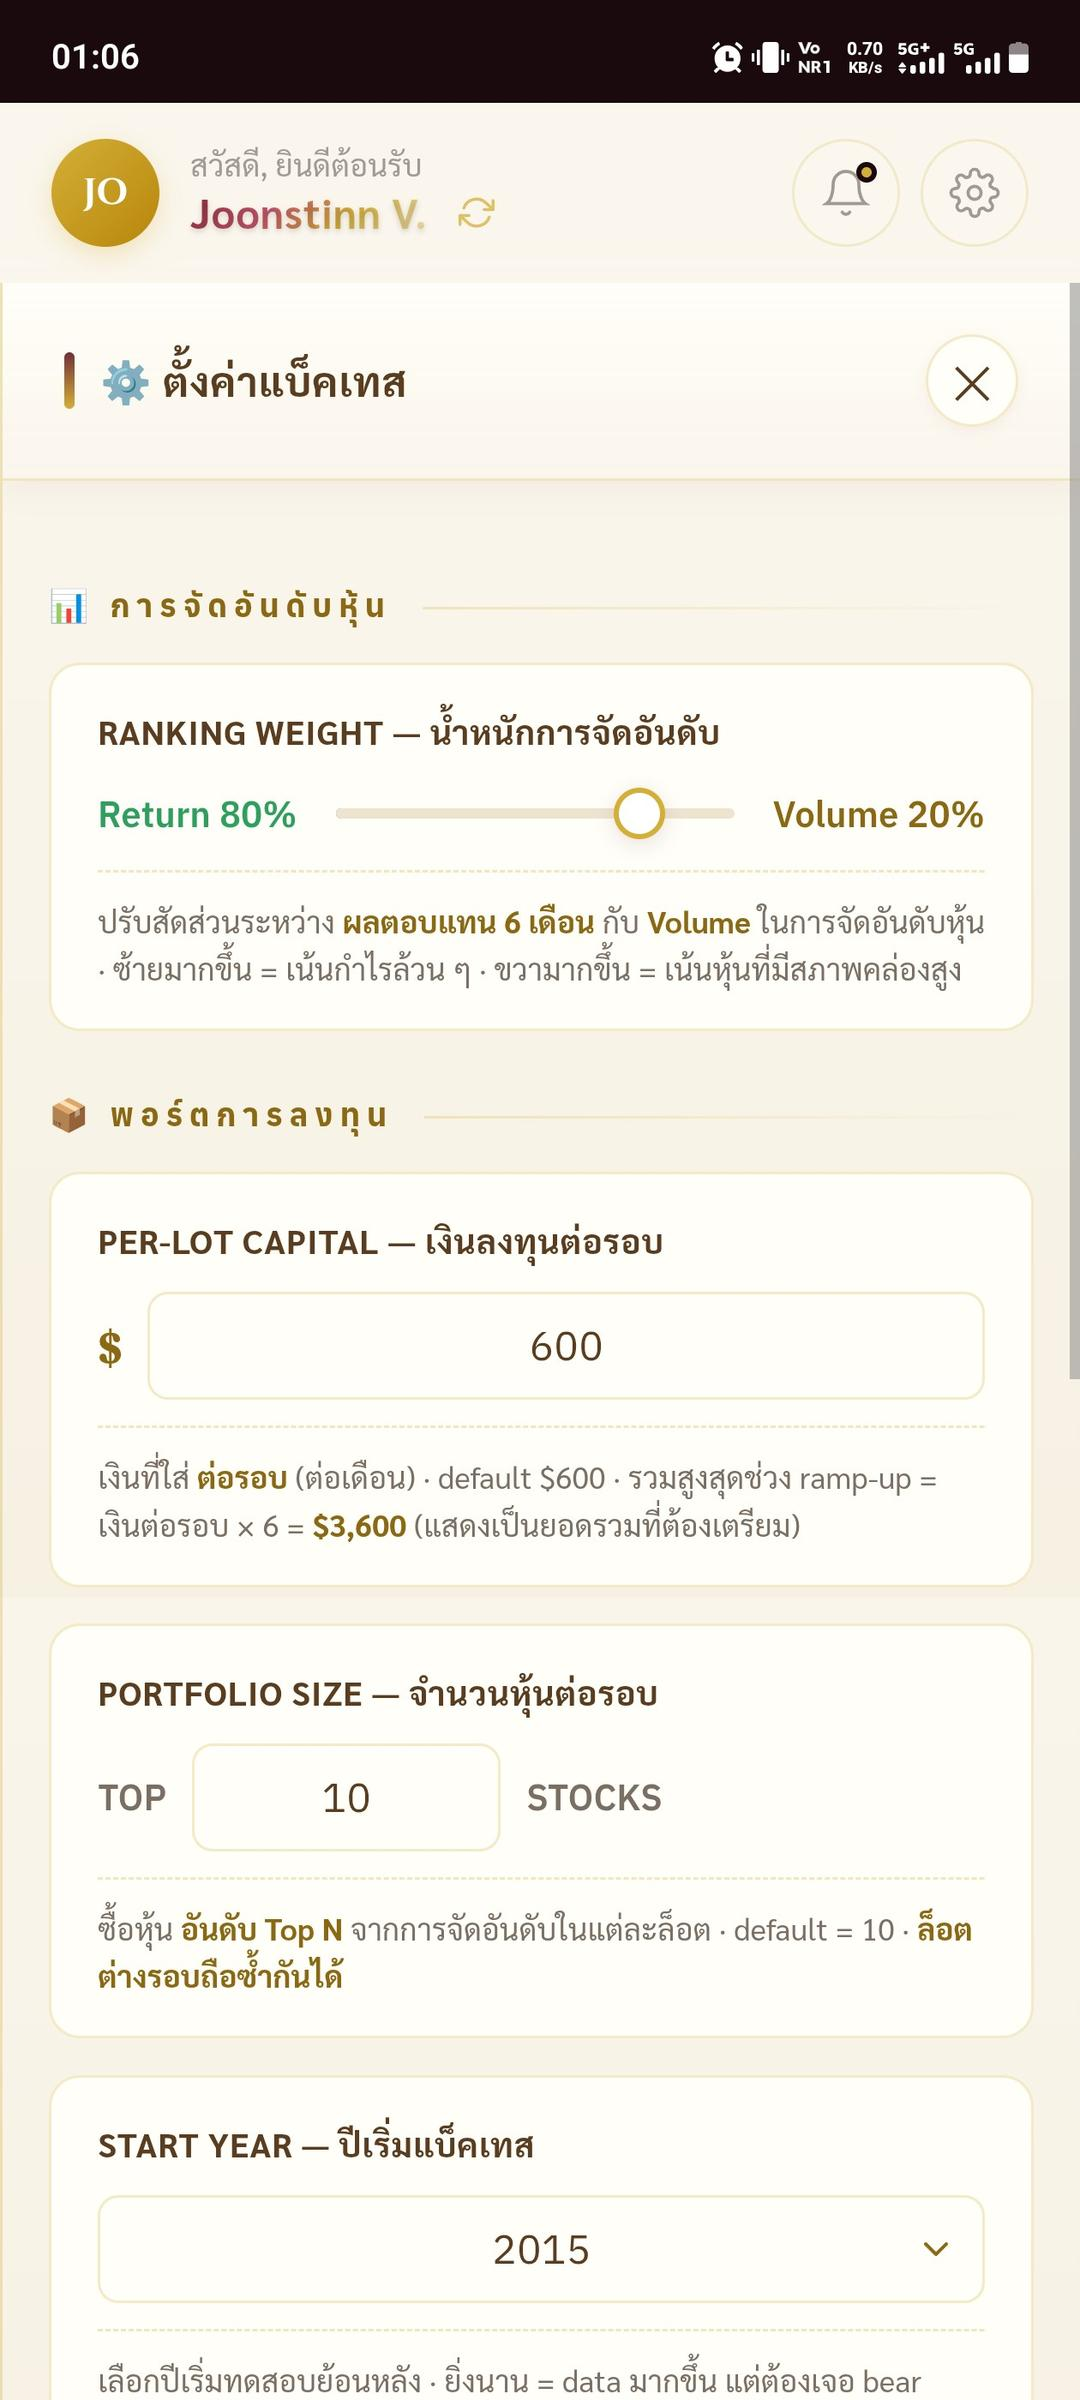
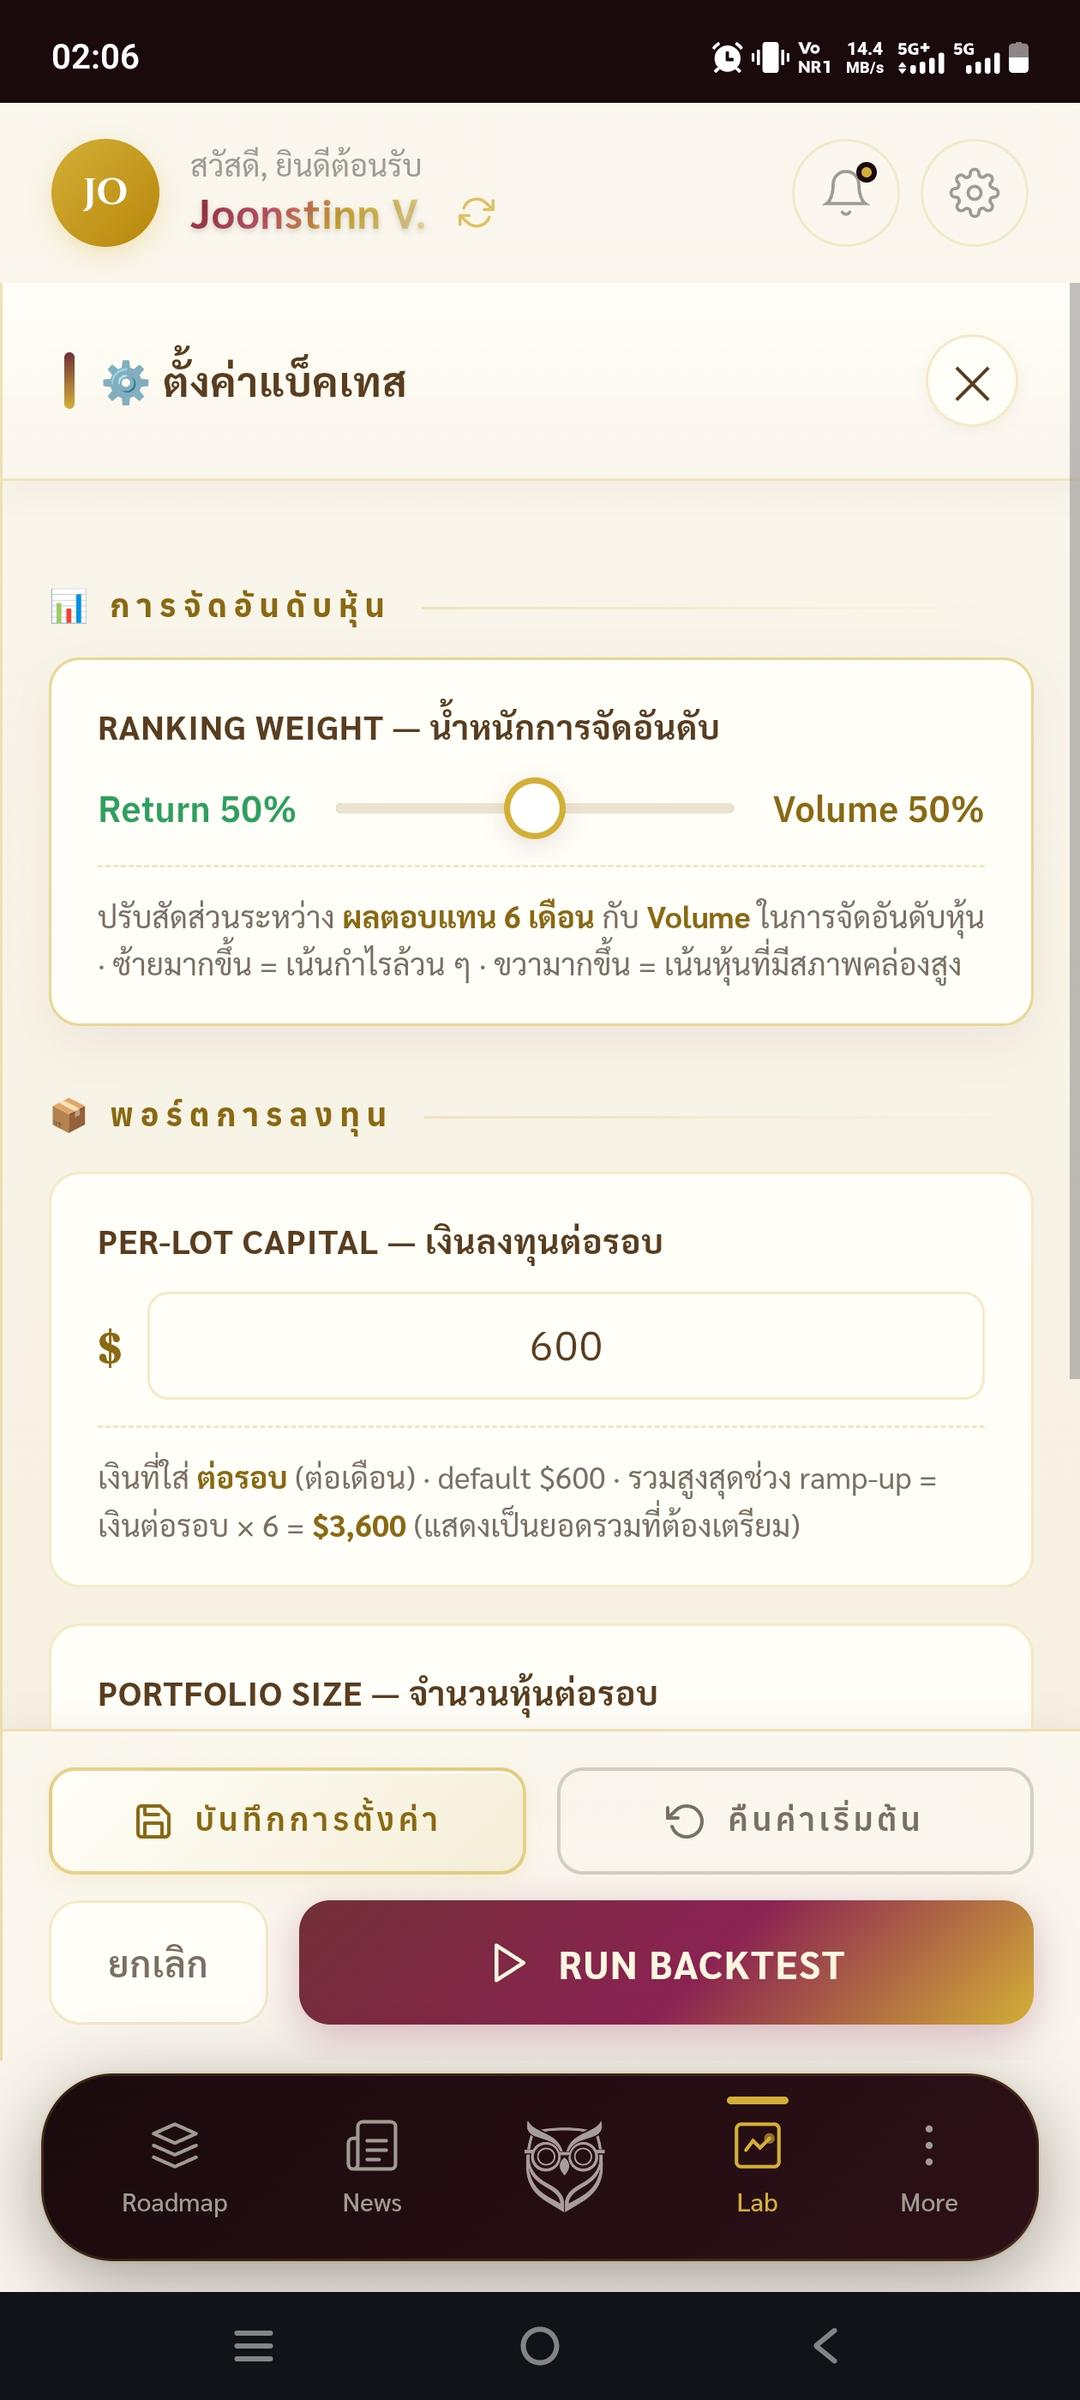
fix(guide): pink highlight rings, factory-default settings screens, expanded how-it-works
- rings gold -> pink (#E8879C) + dark halo: gold rings were invisible on the gold quad grid
- replace settings screenshots with the two factory-default screens (Return 50/Volume 50)
- defaults card now shows 50/50 and is ordered to match the modal
- add 3 explainer scenes: 4-step mechanism, where the 6 lots come from, why it works
- tighten text-scene spacing so everything fits a 360px phone
- 76 beats / 5:23 autoplay

diff --git a/lab-guide/rolling-6m/index.html b/lab-guide/rolling-6m/index.html
@@ -49,16 +49,17 @@ body{font-family:var(--font-thai);color:var(--text-light);display:flex;align-ite
   transition:opacity .45s ease}
 #pan img.on{opacity:1}
 
-.ring{position:absolute;border:solid var(--gold);border-width:calc(3.2px / var(--zs));
+.ring{position:absolute;border:solid var(--pink);border-width:calc(3.6px / var(--zs));
   border-radius:calc(14px / var(--zs));opacity:0;transform:scale(1.35);
-  box-shadow:0 0 calc(26px / var(--zs)) rgba(212,175,55,.55),
-             inset 0 0 calc(26px / var(--zs)) rgba(212,175,55,.22);
+  box-shadow:0 0 calc(9px / var(--zs)) rgba(13,5,8,.75),
+             0 0 calc(30px / var(--zs)) rgba(232,135,156,.85),
+             inset 0 0 calc(28px / var(--zs)) rgba(232,135,156,.30);
   transition:opacity .45s ease,transform .55s var(--ease-spring)}
 .ring.on{opacity:1;transform:scale(1)}
 .ring.pill{border-radius:calc(60px / var(--zs))}
 .ring.dot{border-radius:50%}
 .ring::after{content:'';position:absolute;inset:calc(-6px / var(--zs));border-radius:inherit;
-  border:solid var(--gold);border-width:calc(2px / var(--zs));opacity:0}
+  border:solid var(--pink-light);border-width:calc(2.4px / var(--zs));opacity:0}
 .ring.on.tap::after{animation:ripple 1.7s ease-out infinite}
 @keyframes ripple{0%{transform:scale(.94);opacity:.85}100%{transform:scale(1.28);opacity:0}}
 .mask{position:absolute;inset:0;background:rgba(13,5,8,.5);opacity:0;
@@ -91,7 +92,7 @@ body{font-family:var(--font-thai);color:var(--text-light);display:flex;align-ite
   padding:5% 6%;opacity:0;visibility:hidden;transition:opacity .5s ease}
 .scene.active{opacity:1;visibility:visible;animation:sceneIn .8s var(--ease-spring)}
 @keyframes sceneIn{from{opacity:0;transform:scale(1.05)}to{opacity:1;transform:none}}
-.scene>[data-beat]{margin-block:1.6%;max-height:78cqh;overflow:visible}
+.scene>[data-beat]{margin-block:1.15%;max-height:78cqh;overflow:visible}
 .scene>[data-beat]:not(.on){max-height:0;margin-block:0;overflow:hidden;
   padding-top:0;padding-bottom:0;border-top-width:0;border-bottom-width:0}
 [data-beat]{opacity:0;transform:translateY(28px);
@@ -118,13 +119,13 @@ body{font-family:var(--font-thai);color:var(--text-light);display:flex;align-ite
   -webkit-background-clip:text;background-clip:text;-webkit-text-fill-color:transparent}
 .rose-grad{background:linear-gradient(135deg,#E8879C,#F7C6D3,#E8879C);
   -webkit-background-clip:text;background-clip:text;-webkit-text-fill-color:transparent}
-.steps{width:100%;display:flex;flex-direction:column;gap:9px}
+.steps{width:100%;display:flex;flex-direction:column;gap:7px}
 .step{display:flex;gap:12px;align-items:flex-start;border:1px solid rgba(232,135,156,.32);
   border-radius:13px;background:linear-gradient(165deg,rgba(58,20,36,.8),rgba(34,9,15,.85));
-  padding:11px 14px}
+  padding:9px 12px}
 .step i{font-family:var(--font-num);font-style:normal;font-size:clamp(17px,3.8cqh,24px);
   color:var(--pink);line-height:1.15}
-.step span{font-size:clamp(13px,3.4cqh,17px);line-height:1.55}
+.step span{font-size:clamp(12.5px,3.3cqh,17px);line-height:1.5}
 .step span b{color:var(--gold-light);font-weight:600}
 .dflist{width:100%;display:grid;grid-template-columns:1fr 1fr;gap:9px}
 .df{border:1px solid rgba(212,175,55,.4);border-radius:13px;padding:11px 12px;
@@ -134,8 +135,30 @@ body{font-family:var(--font-thai);color:var(--text-light);display:flex;align-ite
 .df b{display:block;font-family:var(--font-num);font-size:clamp(19px,4.6cqh,28px);
   color:var(--gold-light);margin-top:3px;line-height:1.1}
 .df small{display:block;font-size:clamp(10px,2.4cqh,12.5px);color:var(--text-muted);margin-top:3px}
+.note b{color:var(--pink-light);font-weight:600}
 .note{font-size:clamp(12px,3cqh,15px);font-weight:300;color:var(--text-muted);
-  border-left:2px solid rgba(232,135,156,.45);padding-left:12px;line-height:1.7;width:100%}
+  border-left:2px solid rgba(232,135,156,.45);padding-left:11px;line-height:1.58;width:100%}
+.lots{width:100%;display:flex;gap:6px;justify-content:center}
+.lot{flex:1;border:1.5px solid rgba(232,135,156,.45);border-radius:11px;
+  background:linear-gradient(165deg,rgba(58,20,36,.9),rgba(34,9,15,.9));
+  padding:9px 2px 7px;text-align:center;position:relative;
+  opacity:0;transform:translateY(12px) scale(.85)}
+.on.lots .lot{animation:lotIn .5s var(--ease-spring) forwards}
+.on.lots .lot:nth-child(2){animation-delay:.13s}
+.on.lots .lot:nth-child(3){animation-delay:.26s}
+.on.lots .lot:nth-child(4){animation-delay:.39s}
+.on.lots .lot:nth-child(5){animation-delay:.52s}
+.on.lots .lot:nth-child(6){animation-delay:.65s}
+@keyframes lotIn{to{opacity:1;transform:none}}
+.lot b{display:block;font-family:var(--font-num);font-size:clamp(17px,3.8cqh,24px);
+  color:var(--gold-light);line-height:1}
+.lot u{display:block;text-decoration:none;font-size:clamp(9px,2.1cqh,11.5px);
+  color:var(--text-muted);margin-top:3px;white-space:nowrap}
+.on.lots .lot:first-child{border-color:var(--pink);box-shadow:0 0 16px rgba(232,135,156,.5)}
+.on.lots .lot:first-child::after{content:'↻';position:absolute;top:-11px;right:-6px;
+  font-size:clamp(14px,3cqh,19px);color:var(--pink-light);opacity:0;
+  animation:fadeUp .6s ease 1.5s forwards}
+@keyframes fadeUp{to{opacity:1}}
 .brand{font-family:var(--font-label);font-size:12px;letter-spacing:4px;text-transform:uppercase;
   color:rgba(232,135,156,.6);position:absolute;bottom:5%}
 
@@ -186,15 +209,15 @@ body{font-family:var(--font-thai);color:var(--text-light);display:flex;align-ite
 
   <!-- ══ TALK SCENE 1 · ค่าเริ่มต้นแนะนำ ══ -->
   <section class="scene" id="t1">
-    <div class="eyebrow" data-beat>Default Settings</div>
-    <div class="title" data-beat data-anim="pop">ตั้งไม่เป็น<br>ใช้ 4 ค่านี้ก่อน</div>
+    <div class="eyebrow" data-beat>Factory Defaults</div>
+    <div class="title" data-beat data-anim="pop">ตั้งไม่เป็น<br>ใช้ <span class="gold-grad">ค่าโรงงาน</span> ก่อน</div>
     <div class="dflist" data-beat>
+      <div class="df"><u>Ranking Weight</u><b>50 / 50</b><small>Return / Volume</small></div>
       <div class="df"><u>Per-lot Capital</u><b>$600</b><small>ต่อรอบ · รวม 6 เดือน $3,600</small></div>
       <div class="df"><u>Portfolio Size</u><b>10</b><small>ซื้อ Top 10 ต่อรอบ</small></div>
-      <div class="df"><u>Ranking Weight</u><b>80 / 20</b><small>Return / Volume</small></div>
       <div class="df"><u>Start Year</u><b>2015</b><small>ย้อนได้ถึง 1996 ใน Deep Archive</small></div>
     </div>
-    <div class="note" data-beat>เปลี่ยนทีละค่า แล้วดูว่าตัวเลขขยับทางไหน — เปลี่ยนพร้อมกันหลายค่าจะแยกไม่ออกว่าอะไรทำให้ผลเปลี่ยน</div>
+    <div class="note" data-beat>4 ค่านี้คือค่าที่ระบบตั้งมาให้ · อยากลองปรับ ให้เปลี่ยน<b>ทีละค่า</b> แล้วดูว่าตัวเลขขยับทางไหน — เปลี่ยนพร้อมกันหลายค่าจะแยกไม่ออกว่าอะไรทำให้ผลเปลี่ยน</div>
   </section>
 
   <!-- ══ TALK SCENE 2 · ปิด ══ -->
@@ -207,8 +230,42 @@ body{font-family:var(--font-thai);color:var(--text-light);display:flex;align-ite
       <div class="step"><i>3</i><span>ปุ่ม <b>หลอดทดลอง</b> → ตั้งค่า → RUN BACKTEST</span></div>
       <div class="step"><i>4</i><span><b>Trade Log</b> ดูไม้ถัดไป + DETAILS PDF</span></div>
     </div>
-    <div class="note" data-beat>ตัวเลขทั้งหมดเป็นผลทดสอบย้อนหลัง ยังไม่หักค่าธรรมเนียม · เพื่อการศึกษาเท่านั้น ไม่ใช่คำแนะนำการลงทุน</div>
+    <div class="note" data-beat>ผลทดสอบย้อนหลัง ยังไม่หักค่าธรรมเนียม · เพื่อการศึกษา ไม่ใช่คำแนะนำการลงทุน</div>
     <div class="brand">JP Trust Learning</div>
+  </section>
+
+  <!-- ══ กลไก 4 ขั้น ══ -->
+  <section class="scene" id="tm">
+    <div class="eyebrow" data-beat>How It Works</div>
+    <div class="title" data-beat data-anim="pop">กลไกมีแค่<br><span class="gold-grad">4 ขั้น</span></div>
+    <div class="step" data-beat data-anim="left"><i>1</i><span><b>คัด</b> — สแกนหุ้น S&amp;P 500 ทั้งกระดาน ดูย้อนหลัง 6 เดือน ทั้ง<b>ราคา</b>และ<b>ปริมาณซื้อขาย</b> เรียงอันดับ แล้วเอาเฉพาะหัวตาราง</span></div>
+    <div class="step" data-beat data-anim="left"><i>2</i><span><b>ลงเงินเท่ากันทุกตัว</b> — ไม่มีตัวโปรด เพราะไม่มีใครรู้ล่วงหน้าว่าตัวไหนจะเป็นพระเอก</span></div>
+    <div class="step" data-beat data-anim="left"><i>3</i><span><b>ถือยาว 6 เดือน</b> — ไม่ขายตามข่าว ระบบคัดออกตอนอ่อนแรงต่อเนื่อง ไม่ใช่เพราะพาดหัววันเดียว</span></div>
+    <div class="step" data-beat data-anim="left"><i>4</i><span><b>ครบกำหนดค่อยจัดใหม่</b> — สแกนอีกรอบ ตัวไหนยังแรงถือต่อ ตัวไหนหมดแรงคัดออก เอาตัวที่แรงกว่าเข้าแทน</span></div>
+  </section>
+
+  <!-- ══ 6 ไม้มาตรงไหน ══ -->
+  <section class="scene" id="tl">
+    <div class="eyebrow" data-beat>Rolling 6M</div>
+    <div class="title" data-beat data-anim="pop">แล้ว <span class="rose-grad">6 ไม้</span><br>มาตรงไหน</div>
+    <div class="lots" data-beat>
+      <div class="lot"><b>1</b><u>ด.1</u></div><div class="lot"><b>2</b><u>ด.2</u></div>
+      <div class="lot"><b>3</b><u>ด.3</u></div><div class="lot"><b>4</b><u>ด.4</u></div>
+      <div class="lot"><b>5</b><u>ด.5</u></div><div class="lot"><b>6</b><u>ด.6</u></div>
+    </div>
+    <div class="sub" data-beat>เงินไม่ได้ลงทีเดียว — <b>แบ่งเป็น 6 ก้อนเท่ากัน</b><br>เปิดเดือนละก้อน ก้อนละ 10 ตัว</div>
+    <div class="sub" data-beat>พอถึงเดือนที่ 7 <b>ไม้ที่ 1 ครบ 6 เดือนพอดี</b> — ขายทั้งไม้ แล้วเอาเงินไปซื้อหุ้นชุดใหม่ที่กำลังแรง จากนั้นเดือนที่ 8 ก็ถึงคิวไม้ที่ 2 วนไปเรื่อยๆ</div>
+    <div class="note" data-beat>ผลลัพธ์คือ <b>ขยับพอร์ตเดือนละครั้ง</b> แต่หุ้นแต่ละไม้ยังถือครบ 6 เดือนเท่าเดิม</div>
+  </section>
+
+  <!-- ══ ทำไมถึงดี ══ -->
+  <section class="scene" id="tw">
+    <div class="eyebrow" data-beat>Why It Works</div>
+    <div class="title" data-beat data-anim="pop">แบ่ง 6 ไม้<br><span class="gold-grad">ดียังไง</span></div>
+    <div class="step" data-beat data-anim="left"><i>1</i><span><b>ไม่ต้องเดาจังหวะเข้า</b> — เงินทยอยลง 6 เดือน เดือนไหนเผอิญซื้อแพง ก็แพงแค่ 1 ใน 6 ของเงินทั้งหมด</span></div>
+    <div class="step" data-beat data-anim="left"><i>2</i><span><b>วันจัดพอร์ตกระจาย 6 วัน</b> — แบบลงทีเดียวล็อกวันปรับไว้ตายตัว ถ้าตรงกับก้นเหวพอดี ก็ต้องคัดหุ้นวันที่ทุกอย่างดูแย่สุด · แบ่ง 6 ไม้แล้วไม่แขวนชะตาไว้กับวันเดียว</span></div>
+    <div class="step" data-beat data-anim="left"><i>3</i><span><b>ถือหลายตัว น้ำหนักเท่ากัน</b> — ตัวที่พลาด แย่สุดคือเสียเงินก้อนนั้น แต่ตัวที่ถูกวิ่งได้ไม่มีเพดาน ตัวเดียวกลบตัวที่แพ้ได้ทั้งพอร์ต</span></div>
+    <div class="note" data-beat>แลกมาด้วย · <b>6 เดือนแรกเงินยังลงไม่ครบ</b> ผลช่วงต้นจะดูจืด และซื้อขายถี่เป็นเดือนละครั้ง = ค่าธรรมเนียมสูงกว่าแบบลงทีเดียว</div>
   </section>
 
   <div id="guide"></div>
@@ -243,8 +300,8 @@ const R = {
   cagr     :[33.5,32.3,26.0,7.2], profit:[8.0,49.6,36.0,8.0],
   mTL:[8.5,66.0,41.0,11.5], mTR:[51.4,66.0,39.4,11.5], mBL:[8.5,79.0,41.0,11.0], mBR:[51.4,79.0,39.4,11.0],
   setHead  :[4.5,11.5,91.0,6.5],
-  setRank  :[4.5,27.7,91.0,15.3], setCap:[4.7,48.8,90.8,17.4],
-  setSize  :[4.5,23.8,91.0,17.3], setYear:[4.5,42.6,91.0,17.4], setRun:[27.4,81.2,56.0,5.7],
+  setRank  :[4.6,27.3,91.2,15.5], setCap:[4.7,48.7,90.9,17.6],
+  setSize  :[4.7,21.6,90.7,17.4], setYear:[4.7,40.3,91.0,17.5], setRun:[27.4,78.9,58.2,5.7],
   tabStrip :[5.2,18.5,89.5,6.2],
   tabEq:[5.4,18.5,18.0,6.2], tabRr:[23.2,18.5,18.0,6.2], tabDd:[58.8,18.5,18.0,6.2], tabVs:[76.6,18.5,18.0,6.2],
   chart    :[5.2,25.0,89.5,40.5],
@@ -290,8 +347,12 @@ const SCENES=[
 ]},
 
 {img:'05-how-a.jpg', step:'ขั้นที่ 2 · อ่านก่อนกด', beats:[
-  {focus:[50,42,1.18], cap:'ก่อนกดเข้าไป เลื่อนลงอ่าน <b>“กลยุทธ์นี้ทำงานยังไง”</b> ก่อน', pos:'bottom', d:4200}
+  {focus:[50,42,1.18], cap:'ก่อนกดเข้าไป เลื่อนลงอ่าน <b>“กลยุทธ์นี้ทำงานยังไง”</b> — สรุปให้ฟังสั้นๆ ก่อนก็ได้', pos:'bottom', d:4400}
 ]},
+
+{talk:'tm', beats:[{d:1800},{d:2800},{off:[1],d:5600},{d:4800},{d:5000},{d:5400}]},
+{talk:'tl', beats:[{d:1800},{d:2800},{off:[1],d:3400},{d:4800},{off:[3],d:6000},{d:5000}]},
+{talk:'tw', beats:[{d:1800},{d:2800},{off:[1],d:5400},{d:6200},{d:5600},{d:5800}]},
 {img:'05-how-b.jpg', step:'ขั้นที่ 2 · อ่านก่อนกด', beats:[
   {focus:[50,45,1.15], cap:'<b>AXIS 1</b> อธิบายว่าเงินถูกจัดสรรยังไง · <b>AXIS 2</b> อธิบายว่าเจอตลาดขาลงแล้วทำอะไร', pos:'bottom', d:4600}
 ]},
@@ -322,7 +383,7 @@ const SCENES=[
   {focus:[50,15,1.5], ring:[[R.setHead,'']],
    cap:'หน้า <b>ตั้งค่าแบ็คเทส</b> — มี 4 ค่าให้ปรับ', pos:'bottom', d:3200},
   {focus:[50,35,1.65], ring:[[R.setRank,'']],
-   cap:'<b>Ranking Weight</b> ตัดสินว่าจะเรียงอันดับหุ้นยังไง — เลื่อนซ้ายเน้นกำไรล้วน เลื่อนขวาเน้นหุ้นที่สภาพคล่องสูง', pos:'bottom', d:5000},
+   cap:'<b>Ranking Weight</b> ตัดสินว่าจะเรียงอันดับหุ้นยังไง · ค่าโรงงานคือ <b>Return 50% / Volume 50%</b> — เลื่อนซ้ายเน้นกำไรล้วน เลื่อนขวาเน้นหุ้นที่สภาพคล่องสูง', pos:'bottom', d:5400},
   {focus:[50,57,1.65], ring:[[R.setCap,'']],
    cap:'<b>Per-lot Capital</b> คือเงินที่ใส่ต่อรอบ (ต่อเดือน) · $600 หมายถึงช่วง 6 เดือนแรกต้องเตรียม $3,600', pos:'top', d:5000}
 ]},
@@ -498,7 +559,13 @@ function render(){
     if(cursor>=0){
       const els=$$('#'+sc.talk+' [data-beat]');
       let k=0;
-      for(let i=0;i<=cursor;i++){ if(beats[i].sc===b.sc){ if(els[k]) els[k].classList.add('on'); k++; } }
+      for(let i=0;i<=cursor;i++){
+        if(beats[i].sc!==b.sc) continue;
+        if(els[k]) els[k].classList.add('on');
+        if(beats[i].off) beats[i].off.forEach(j=>{
+          if(els[j]){ els[j].classList.remove('on'); els[j].classList.add('gone'); } });
+        k++;
+      }
     }
   } else {
     showTalk(null);
